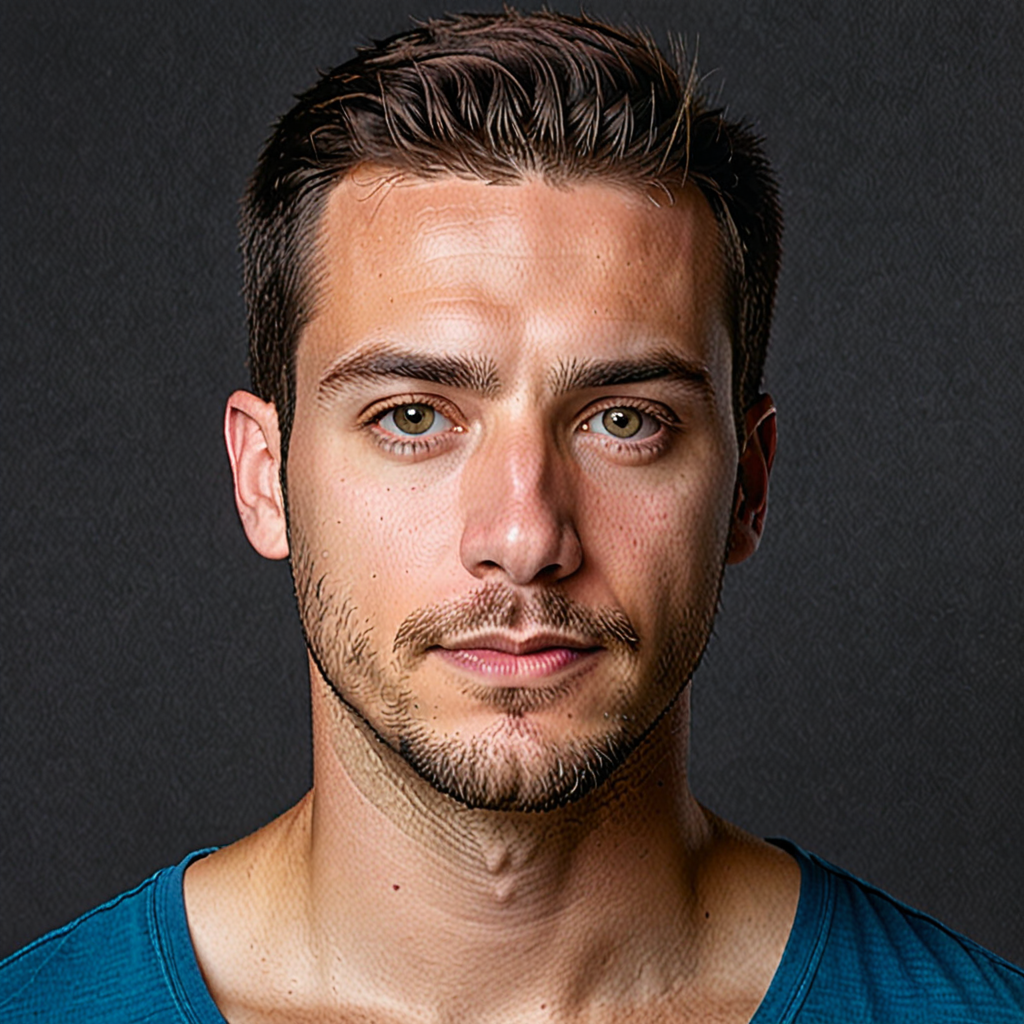
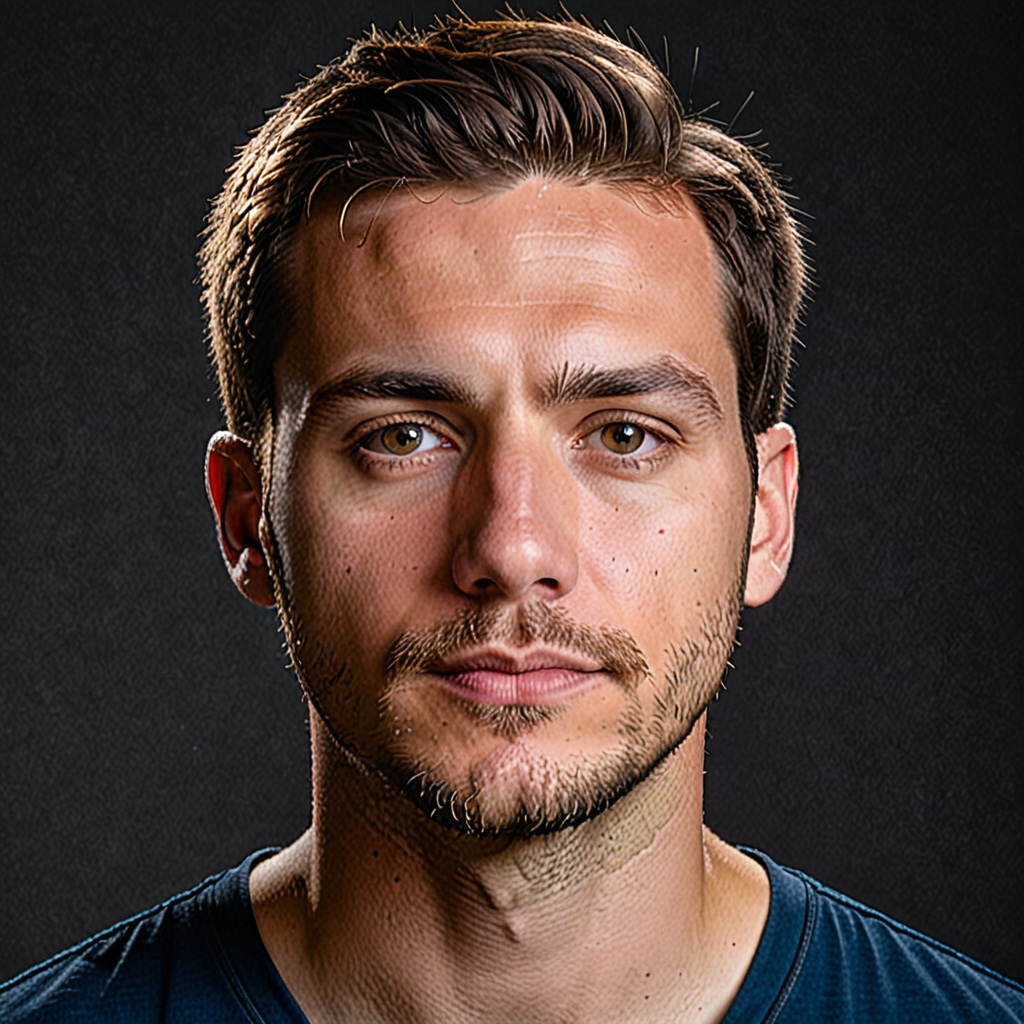
Шаг 2. InstantID v3 + ArcFace Buffalo‑m (ID‑hold).

diff --git a/ai-worker/pipeline.py b/ai-worker/pipeline.py
@@ -6,6 +6,11 @@ import torch
 from fastapi import FastAPI, UploadFile, File, Form
 from fastapi.responses import Response, JSONResponse
 from diffusers import StableDiffusionXLPipeline
+import numpy as np
+from PIL import Image
+
+_arcface_model = None
+_ip_adapter_loaded = False
 
 
 class ModelHolder:
@@ -54,6 +59,30 @@ def _ensure_loader_started() -> None:
         thread.start()
 
 
+def _lazy_load_arcface() -> None:
+    global _arcface_model
+    if _arcface_model is not None:
+        return
+    import insightface
+    _arcface_model = insightface.app.FaceAnalysis(name="buffalo_m")
+    _arcface_model.prepare(ctx_id=0 if torch.cuda.is_available() else -1)
+
+
+def _compute_arcface_embedding(image_bytes: bytes) -> Optional[np.ndarray]:
+    try:
+        import cv2
+        array = np.frombuffer(image_bytes, dtype=np.uint8)
+        img = cv2.imdecode(array, cv2.IMREAD_COLOR)
+        if img is None:
+            return None
+        faces = _arcface_model.get(img)
+        if not faces:
+            return None
+        return faces[0].normed_embedding
+    except Exception:
+        return None
+
+
 @app.get("/health")
 def health() -> JSONResponse:
     _ensure_loader_started()
@@ -67,6 +96,8 @@ def health() -> JSONResponse:
 @app.post("/generate")
 def generate(
     image: Optional[UploadFile] = File(default=None),
+    id_ref: Optional[UploadFile] = File(default=None),
+    id_scale: float = Form(default=1.0),
     prompt: str = Form(default="highly realistic studio headshot, cinematic, sharp focus"),
     negative_prompt: str = Form(default="plastic skin, deformed hands, extra fingers, blurry, watermark, text"),
     width: int = Form(default=1024),
@@ -78,6 +109,11 @@ def generate(
     _ensure_loader_started()
     if _holder is None:
         return JSONResponse({"error": "model_not_ready"}, status_code=503)
+    id_embedding: Optional[np.ndarray] = None
+    if id_ref is not None:
+        _lazy_load_arcface()
+        id_bytes = id_ref.file.read()
+        id_embedding = _compute_arcface_embedding(id_bytes)
     generator: Optional[torch.Generator] = None
     if seed is not None:
         generator = torch.Generator(device=_holder.device).manual_seed(int(seed))
